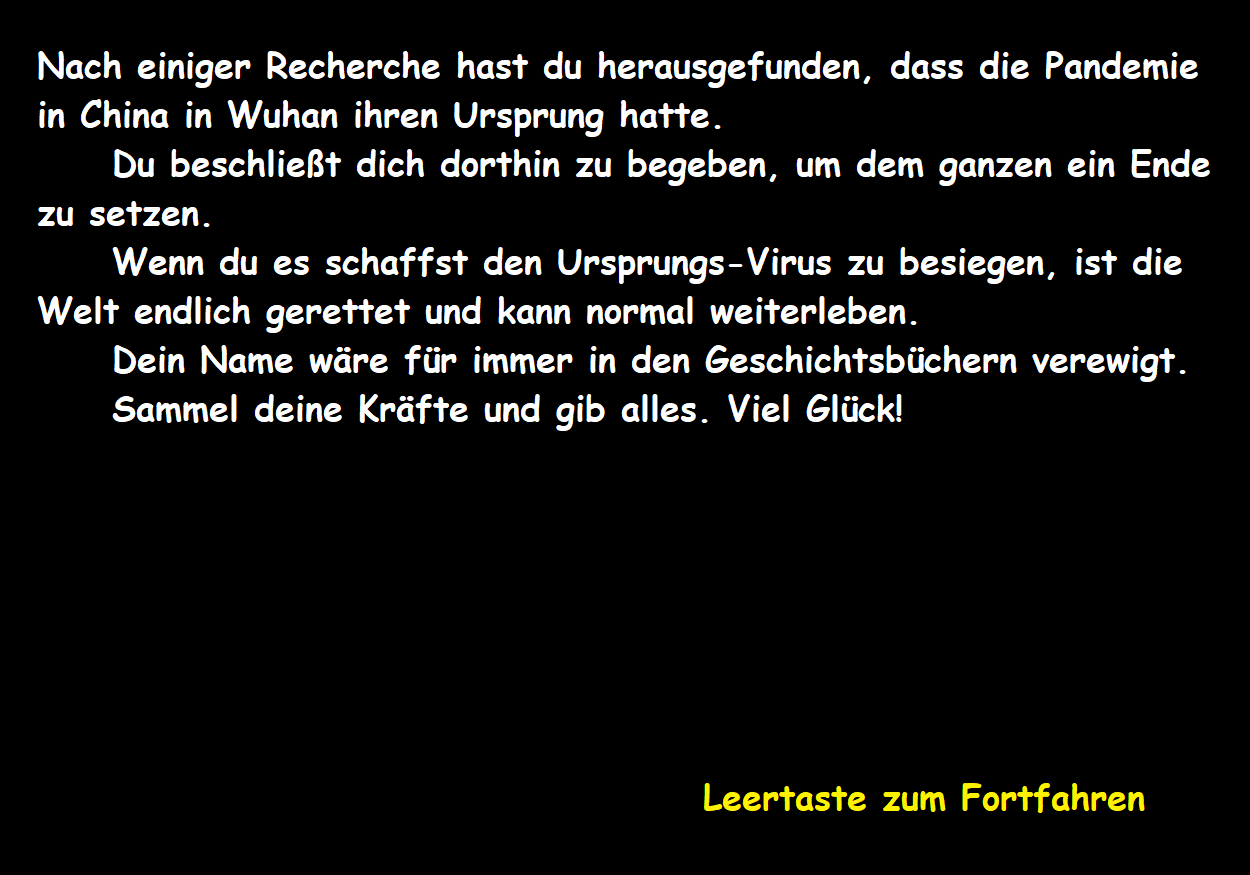
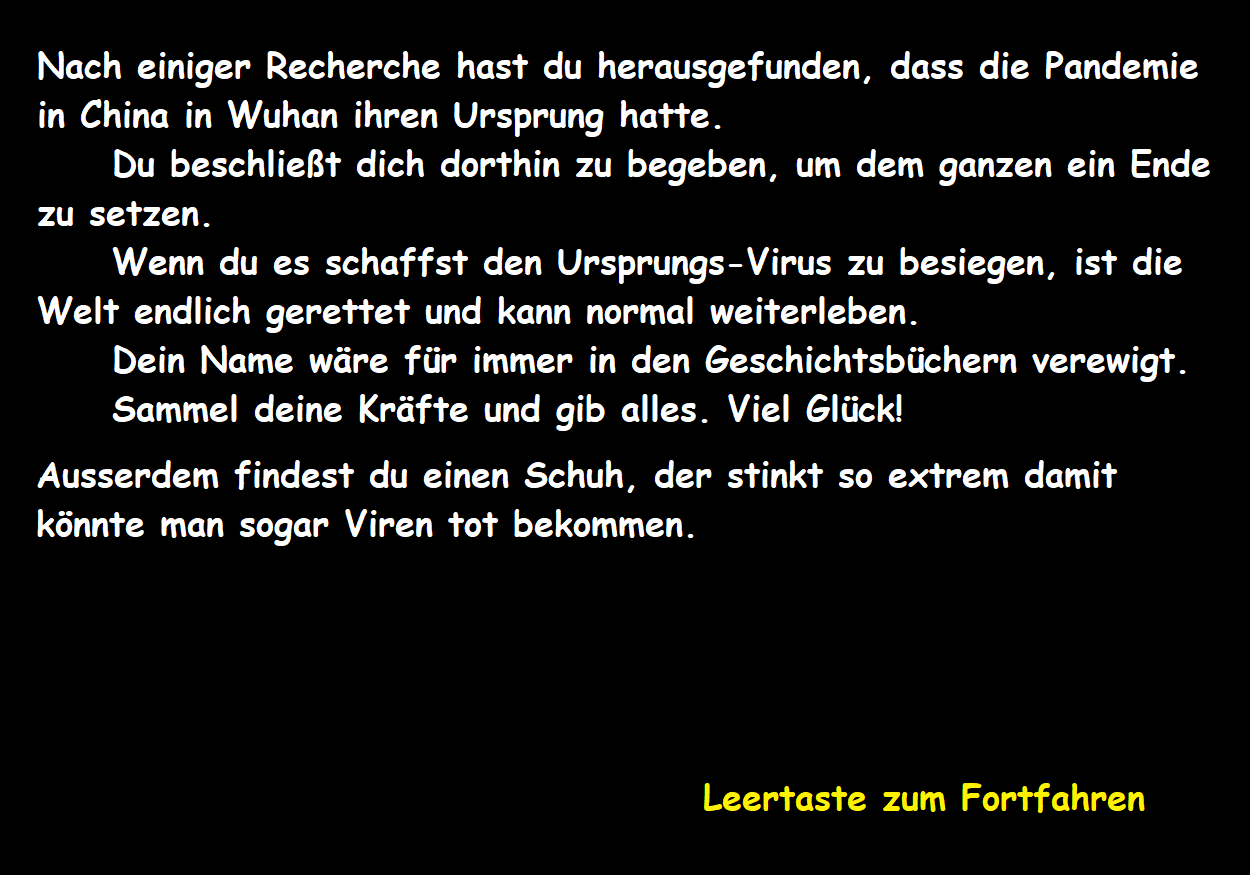
story Anpassungen

Changed region(s): [[0.0312, 0.5246, 0.9048, 0.5554], [0.0312, 0.5863, 0.5616, 0.6171]]

diff --git a/Jenet Projekt/Combat.cs b/Jenet Projekt/Combat.cs
@@ -62,6 +62,7 @@ namespace Jenet_Projekt
                     case 0:
                         MessageBox.Show("Mundschutz");
                         fightSprite(Resources.Resource1.Mundschutz);
+                        Main.getInstance().addtoList("Enemy attack has been lowered");
                         enemy.setAttack(5);
                         break;
                     case 1:
@@ -72,6 +73,7 @@ namespace Jenet_Projekt
                     case 2:
                         MessageBox.Show("Spritze");
                         fightSprite(Resources.Resource1.spritze_Item);
+                        Main.getInstance().addtoList("Enemy attack has been lowered");
                         enemy.setAttack(1);
                         break;
                     case 3:
@@ -79,11 +81,17 @@ namespace Jenet_Projekt
                         fightSprite(Resources.Resource1.Crocs);
                         if (enemy.getClass() == Klasse.Klassen.Bat)
                         {
+                            Main.getInstance().addtoList("Corona wurde mit dem Schuh kaputt gehauen");
                             enemy.setHealth(0);
+                        }
+                        else
+                        {
+                            Main.getInstance().addtoList("Nothing happened");
                         }
                         break;
                 }
                 itemArray[type] -= 1;
+                combatOverCheck();
             }
             Main.getInstance().showItems(itemArray);
         }
